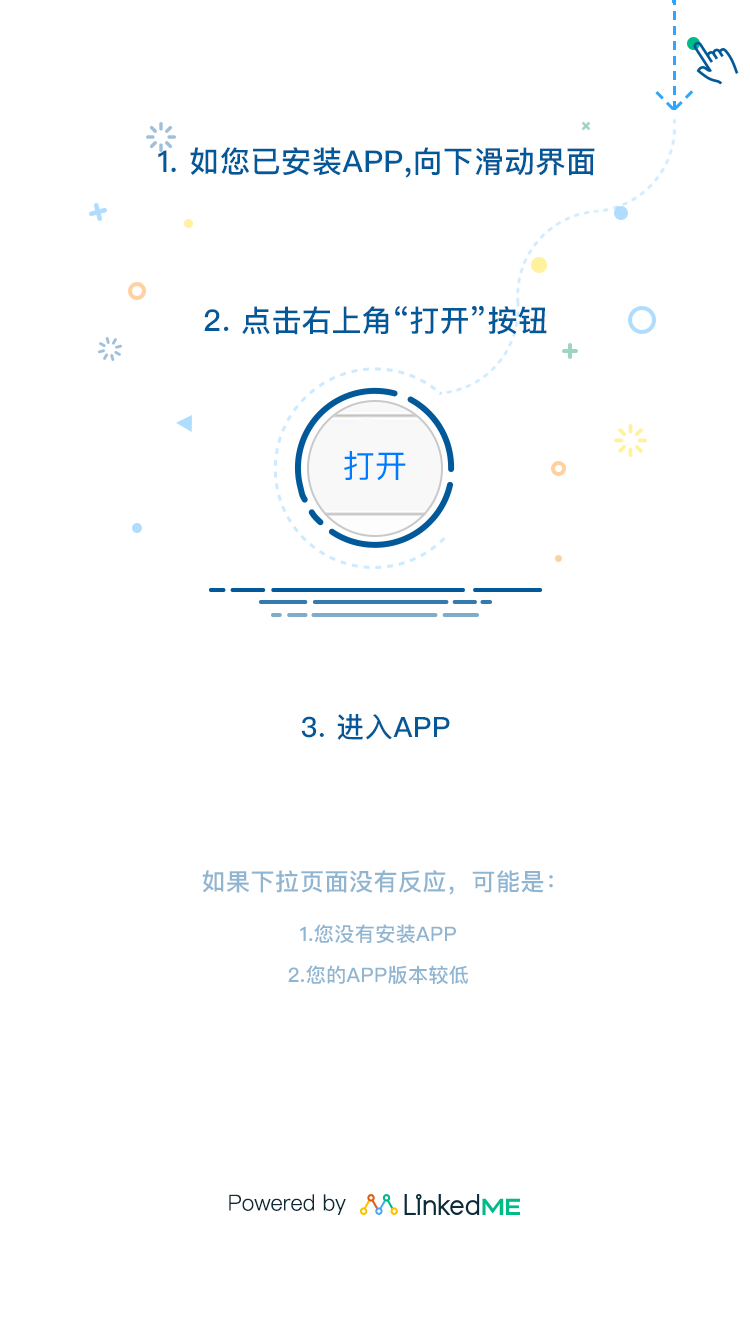
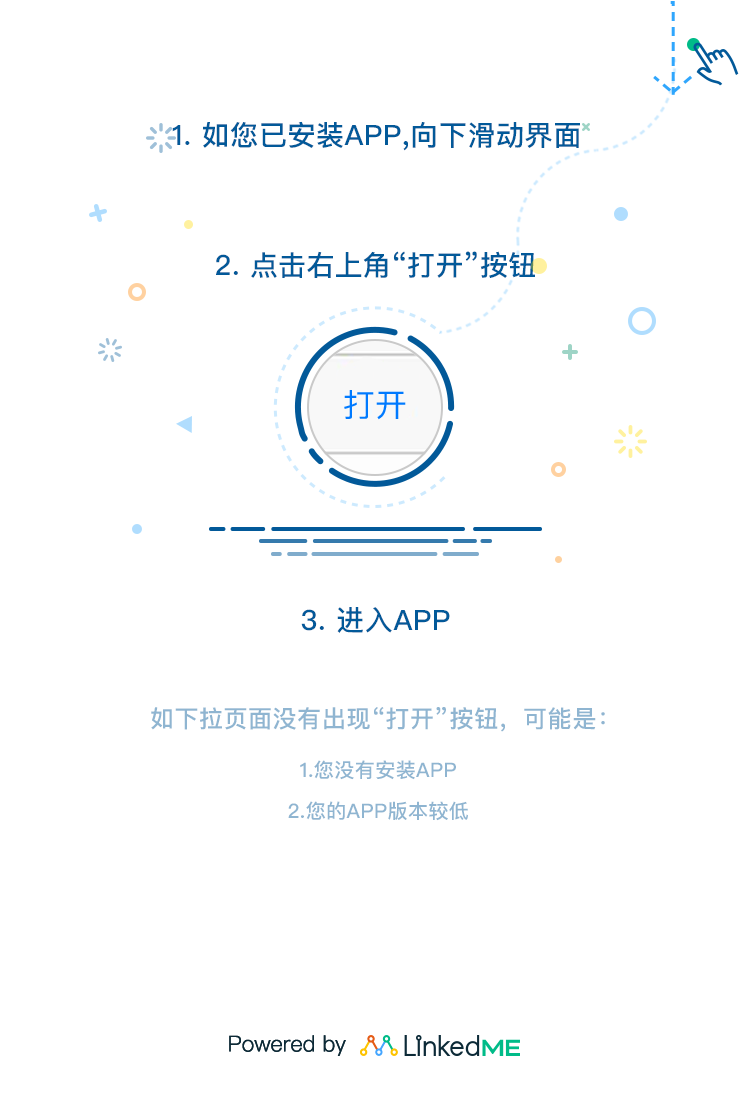
fix client ip bugs

diff --git a/lkme-web/src/main/webapp/js/linkedme-redirect4.js b/lkme-web/src/main/webapp/js/linkedme-redirect4.js
@@ -274,11 +274,11 @@ function iOSSafariLaunch(a, b, c) {
 }
 
 function gotoUC(a) {
-    var div_allow_deeplink_forward = '<div style="background-image:url(' + baseImgPathLang + 'open_app.png);background-size: 100% 100%;width:100%;height:100%;"><div style="text-align:center; width:100%; position:absolute; top:35%;"><p id="textCountDown" style="font-size: 1em; color: #959595; padding: 6px 20px; -webkit-border-radius: 30px; -moz-border-radius: 30px; border-radius: 30px;"></p></div></div>';
+    var div_allow_deeplink_forward = '<div style="height:100%;"><img id="baseImg" src="' + baseImgPathLang + 'open_app.png"/><div style="text-align:center; width:100%; position:absolute; top:35%;"><p id="textCountDown" style="font-size: 1em; color: #959595; padding: 6px 20px; -webkit-border-radius: 30px; -moz-border-radius: 30px; border-radius: 30px;"></p></div></div>';
     dstLocation = lkmeAction.destination.androidBrowser.replace(/{browserName}/g, "UC");
     var b = $("body").html();
     $("body").append(div_allow_deeplink_forward);
-    var c = 4,
+    var c = 2,
         d = function () {
             c--;
             $("#textCountDown").html(c);
@@ -294,21 +294,29 @@ function gotoUC(a) {
 function gotoCannotForwardPage() {
     DEBUG_ALERT("cannot launch app");
     var destination;
+    var div_cannot_forward_with_btn = '<div style="height:100%;text-align:center;"><img id="baseImg" src="' + baseImgPathLang + 'cannot_forward.png"/><div class="img-pos" style="position:absolute;top:80%;width:100%;margin:0 auto;"><button id="btnGotoAndroidDownload" style="font-size: 1em; background-color:#FFF !important;color:#959595; border: 1px solid #959595; padding: 6px 30px; -webkit-border-radius: 30px; -moz-border-radius: 30px; border-radius: 30px;">';
     if (Params.isDownloadDirectly()) {
         destination = lkmeAction.destination.androidCannotForward.replace(/{dest}/g, "download");
-        var div_cannot_forward_with_download_btn = '<div style="background-image:url(' + baseImgPathLang + 'cannot_forward.png);background-size: 100% 100%;width:100%;height:100%;">    <div style="text-align:center; width:100%; position:absolute; top:80%;">        <button id="btnGotoAndroidDownload" style="font-size: 1em; background-color:#FFFFFF; border: 3px solid #959595; color: #959595; padding: 6px 20px; -webkit-border-radius: 30px; -moz-border-radius: 30px; border-radius: 30px;">' + downloadAPK + "</button>    </div></div>";
-        $("body").append(div_cannot_forward_with_download_btn), $("#btnGotoAndroidDownload").click(function () {
+        div_cannot_forward_with_btn = div_cannot_forward_with_btn + downloadAPK + "</button></div></div>";
+        $("body").append(div_cannot_forward_with_btn);
+        $("#btnGotoAndroidDownload").click(function () {
             lkmeAction.recordJSUserClickEvent("gotoAndroidDirectDownload");
             gotoUrl(Params.forward_url);
         });
     } else {
         destination = lkmeAction.destination.androidCannotForward.replace(/{dest}/g, "market");
-        var div_cannot_forward_with_market_btn = '<div style="background-image:url(' + baseImgPathLang + 'cannot_forward.png);background-size: 100% 100%;width:100%;height:100%;">    <div style="text-align:center; width:100%; position:absolute; top:80%;">        <button id="btnGotoAndroidMarket" style="font-size: 1em; background-color:#FFFFFF; border: 3px solid #959595; color: #959595; padding: 6px 20px; -webkit-border-radius: 30px; -moz-border-radius: 30px; border-radius: 30px;">' + gotoStore + "</button></div></div>";
-        $("body").append(div_cannot_forward_with_market_btn), $("#btnGotoAndroidMarket").click(function () {
+        div_cannot_forward_with_btn = div_cannot_forward_with_btn + gotoStore + "</button></div></div>";
+        $("body").append(div_cannot_forward_with_btn);
+        $("#btnGotoAndroidDownload").click(function () {
             lkmeAction.recordJSUserClickEvent("gotoAndroidMarket");
             gotoAndroidMarket();
         });
     }
+
+    baseImg.onload = function() {
+        var h = $('#baseImg').height() * 0.8;
+        $('.img-pos').css('top', h + 'px');
+    };
 
     lkmeAction.recordJSEvent(destination);
     lkmeAction.recordId();
@@ -330,7 +338,7 @@ function gotoAndroidAppInstall() {
     if (Params.isDownloadDirectly()) {
         destination = lkmeAction.destination.androidLoadLandingPage.replace(/{dest}/g, "download");
         DEBUG_ALERT(destination);
-        div_goto_landingpage = div_goto_landingpage.replace(/{Bg_Url}/g, baseImgPathLang + "bg.png").replace(/{app_name}/g, Params.app_name).replace(/{logo_url}/g, Params.logo_url).replace(/{Download_title}/g, Params.app_title).replace(/{Download_msg}/g, Params.app_slogan).replace(/{Btn_landingpage_text}/g, downloadAPK).replace(/{Border_width}/g, "3").replace(/{Element_type}/g, "button");
+        div_goto_landingpage = div_goto_landingpage.replace(/{Bg_Url}/g, baseImgPathLang + "bg.png").replace(/{app_name}/g, Params.app_name).replace(/{logo_url}/g, Params.logo_url).replace(/{Btn_landingpage_text}/g, downloadAPK).replace(/{Border_width}/g, "3").replace(/{Element_type}/g, "button");
         $("body").append(div_goto_landingpage);
         lkmeAction.recordJSEvent(destination);
         $("#btnGotoLandingPage").click(function () {
@@ -340,13 +348,13 @@ function gotoAndroidAppInstall() {
     } else if (Params.isCannotGoMarket()) {
         destination = lkmeAction.destination.androidCannotLoadLandingPage.replace(/{dest}/g, "market");
         DEBUG_ALERT(destination);
-        div_goto_landingpage = div_goto_landingpage.replace(/{Bg_Url}/g, baseImgPathLang + "bg.png").replace(/{app_name}/g, Params.app_name).replace(/{logo_url}/g, Params.logo_url).replace(/{Download_title}/g, Params.app_title).replace(/{Download_msg}/g, Params.app_slogan).replace(/{Btn_landingpage_text}/g, openStore).replace(/{Border_width}/g, "0").replace(/{Element_type}/g, "p");
+        div_goto_landingpage = div_goto_landingpage.replace(/{Bg_Url}/g, baseImgPathLang + "bg.png").replace(/{app_name}/g, Params.app_name).replace(/{logo_url}/g, Params.logo_url).replace(/{Btn_landingpage_text}/g, openStore).replace(/{Border_width}/g, "0").replace(/{Element_type}/g, "p");
         $("body").append(div_goto_landingpage);
         lkmeAction.recordJSEvent(destination);
     } else if (Params.isUC()) {
         destination = lkmeAction.destination.androidLoadLandingPage.replace(/{dest}/g, "uc_browser_market");
         DEBUG_ALERT(destination);
-        div_goto_landingpage = div_goto_landingpage.replace(/{Bg_Url}/g, baseImgPathLang + "bg.png").replace(/{app_name}/g, Params.app_name).replace(/{logo_url}/g, Params.logo_url).replace(/{Download_title}/g, Params.app_title).replace(/{Download_msg}/g, Params.app_slogan).replace(/{Btn_landingpage_text}/g, gotoStore).replace(/{Border_width}/g, "3").replace(/{Element_type}/g, "button");
+        div_goto_landingpage = div_goto_landingpage.replace(/{Bg_Url}/g, baseImgPathLang + "bg.png").replace(/{app_name}/g, Params.app_name).replace(/{logo_url}/g, Params.logo_url).replace(/{Btn_landingpage_text}/g, gotoStore).replace(/{Border_width}/g, "3").replace(/{Element_type}/g, "button");
         $("body").append(div_goto_landingpage);
         lkmeAction.recordJSEvent(destination);
         $("#btnGotoLandingPage").click(function () {

diff --git a/linkedme-api/src/main/java/cc/linkedme/service/sdkapi/impl/LMSdkServiceImpl.java b/linkedme-api/src/main/java/cc/linkedme/service/sdkapi/impl/LMSdkServiceImpl.java
@@ -258,8 +258,10 @@ public class LMSdkServiceImpl implements LMSdkService {
         if ("ios".equals(installParams.os.trim().toLowerCase())) {
             deviceModel = "iphone";
         }
+        String clientIp = getClientIp(installParams.clientIP);
+
         String deviceFingerprintId = createFingerprintId(String.valueOf(appId), installParams.os, installParams.os_version,
-                deviceModel.trim().toLowerCase(), installParams.clientIP);
+                deviceModel.trim().toLowerCase(), clientIp);
 
         if (Strings.isNullOrEmpty(identityIdStr)) { // 之前不存在<device, identityId>
             operationType = FingerPrintInfo.OperationType.ADD;
@@ -421,6 +423,14 @@ public class LMSdkServiceImpl implements LMSdkService {
         return MD5Utils.md5(deviceParamsStr);
     }
 
+    private static String getClientIp(String ip) {
+        if (Strings.isNullOrEmpty(ip)) {
+            return ip;
+        }
+        String[] ipArr = ip.split(",");
+        return ipArr[ipArr.length - 1];
+    }
+
     private static String getClickIdFromUri(String deepLinkUrl) {
         String clickId = "";
         if (Strings.isNullOrEmpty(deepLinkUrl)) {
@@ -504,8 +514,9 @@ public class LMSdkServiceImpl implements LMSdkService {
                 if (!Strings.isNullOrEmpty(openParams.device_model)) {
                     deviceModel = openParams.device_model.trim().toLowerCase();
                 }
+                String clientIp = getClientIp(openParams.clientIP);
                 String deviceFingerprintId =
-                        createFingerprintId(String.valueOf(appId), openParams.os, openParams.os_version, deviceModel, openParams.clientIP);
+                        createFingerprintId(String.valueOf(appId), openParams.os, openParams.os_version, deviceModel, clientIp);
                 String deepLinkIdStr = browserFingerprintIdForYYBMemCache.get(deviceFingerprintId + ".yyb");
                 if (!Strings.isNullOrEmpty(deepLinkIdStr)) {
                     deepLinkId = Long.parseLong(deepLinkIdStr);
